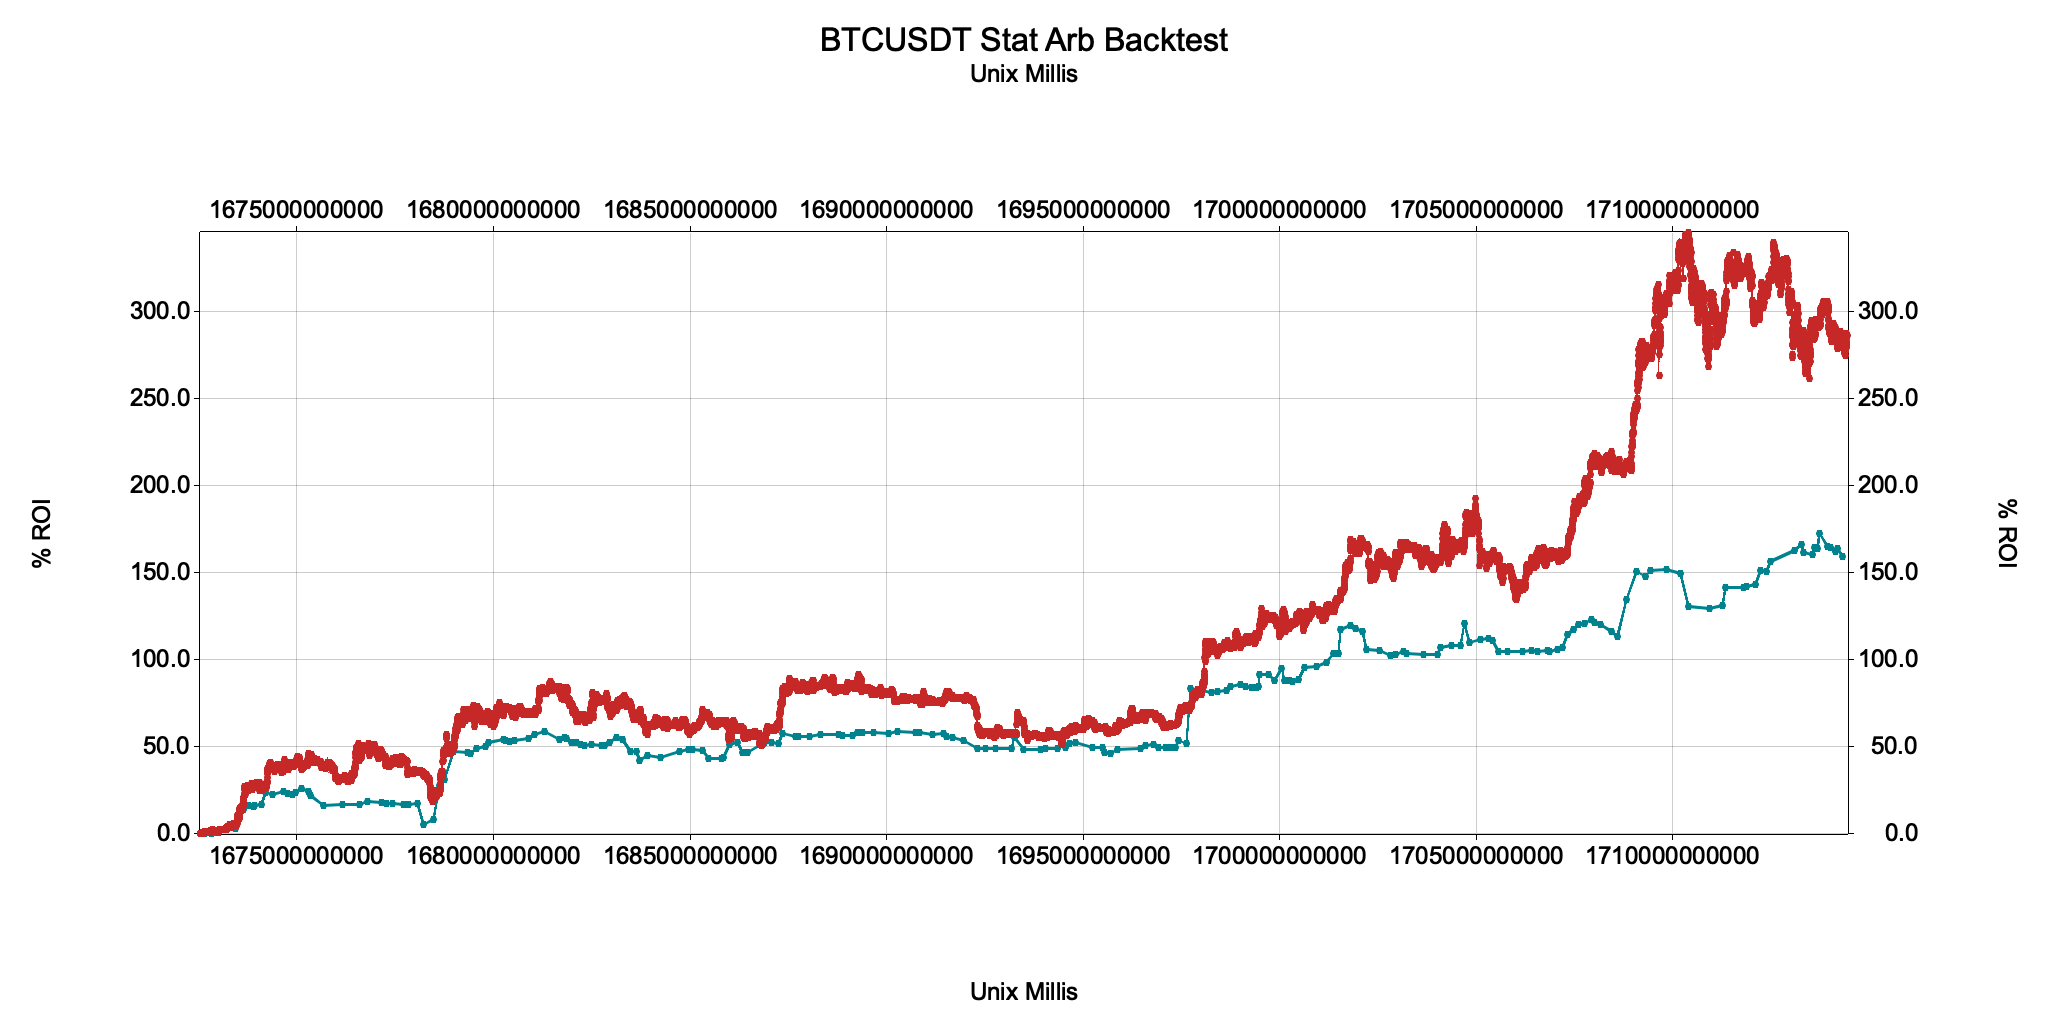
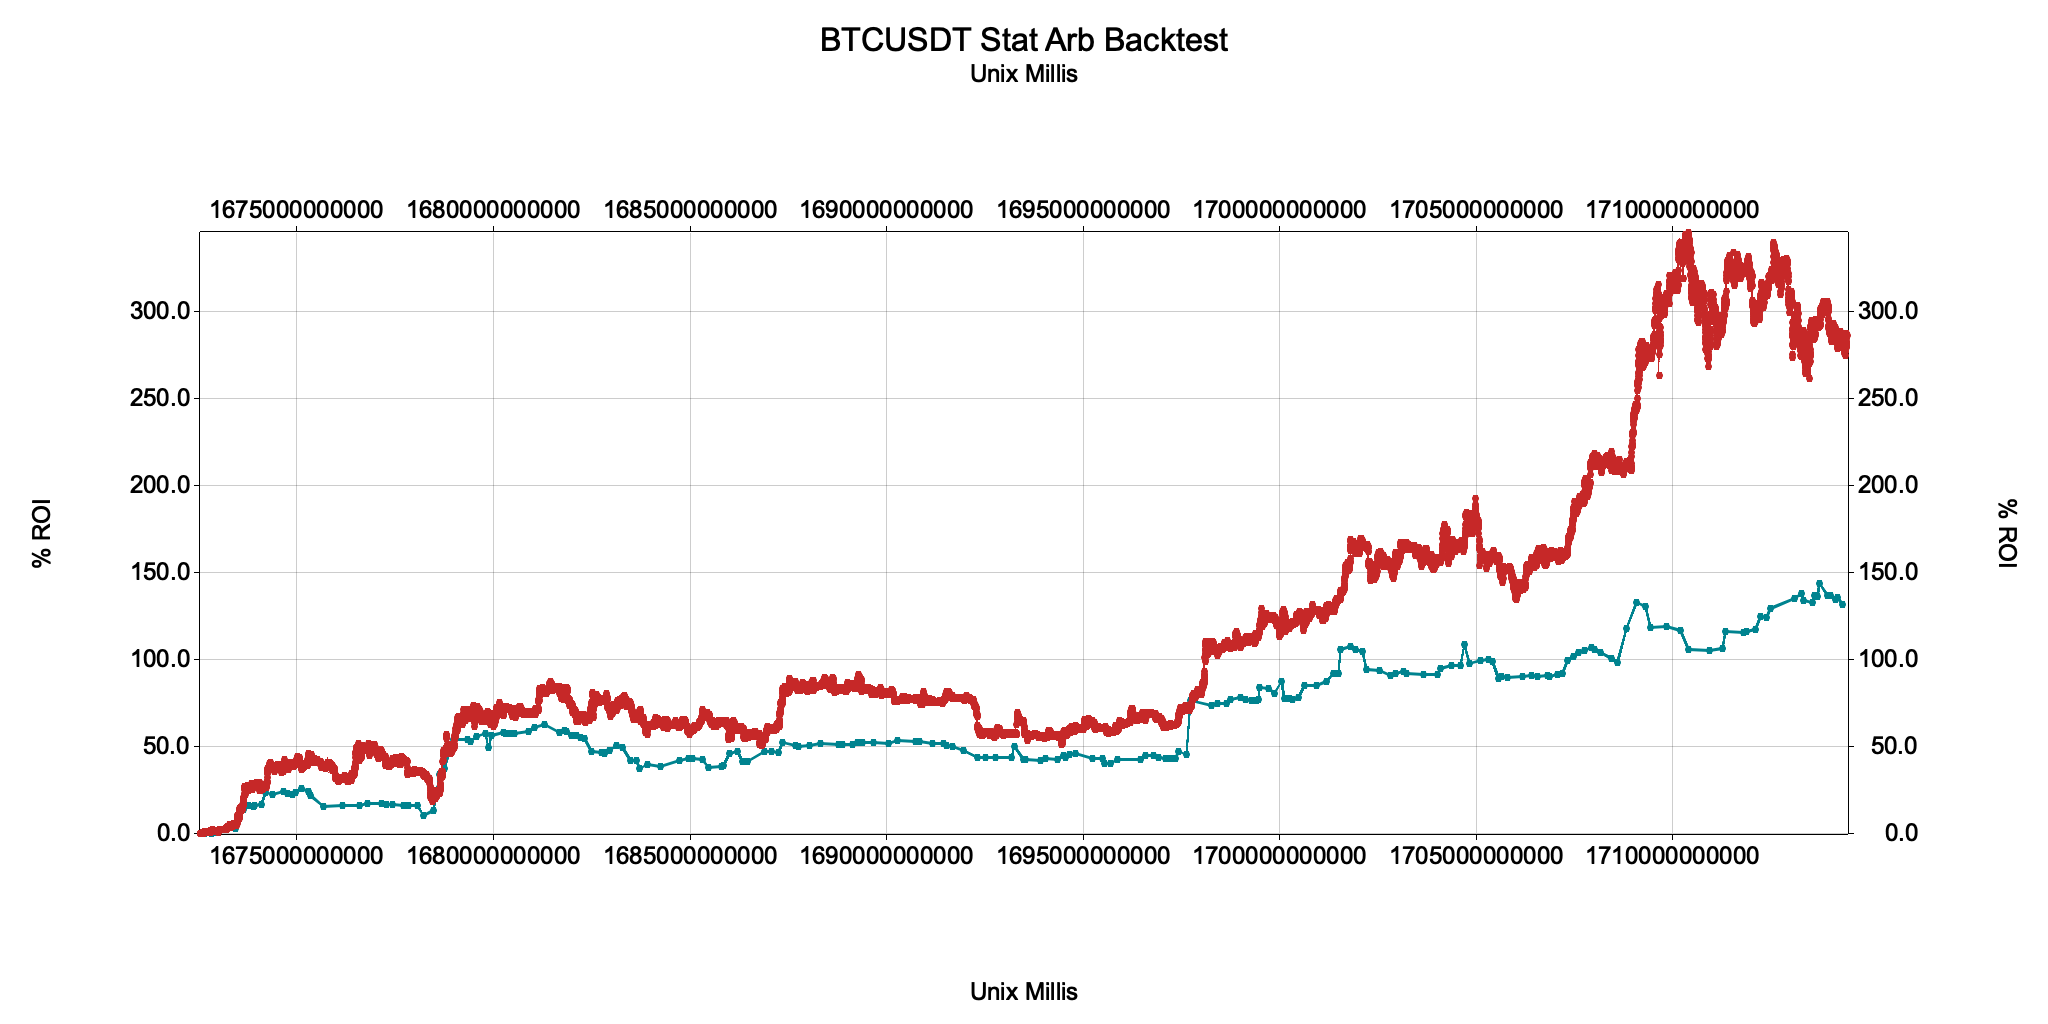
avoid duplicate stop loss entries

Changed region(s): [[0.5938, 0.5312, 0.9062, 0.6875], [0.2188, 0.6875, 0.5938, 0.75], [0.1875, 0.7812, 0.2188, 0.8125]]

diff --git a/dreamrunner/src/engine.rs b/dreamrunner/src/engine.rs
@@ -429,135 +429,6 @@ impl<T, S: Strategy<T>> Engine<T, S> {
     Ok(trunc!(pnl, 2))
   }
 
-  /// This version of `check_active_order` fetches the true value from the API
-  /// in the event that the websocket stream is unreliable.
-  // pub async fn manually_check_active_order(&mut self) -> DreamrunnerResult<()> {
-  //   let copy = self.active_order.clone();
-  //   if let Some(entry) = &copy.entry {
-  //     let all_orders = self.all_orders().await?;
-  //     let actual_entry = all_orders
-  //       .iter()
-  //       .find(|o| o.client_order_id == entry.client_order_id()).cloned();
-  //     
-  //     match entry {
-  //       // entry order has been placed on binance and is new, partially filled, filled, or canceled
-  //       OrderState::Active(cached_entry) => {
-  //         // check cached entry versus binance's entry
-  //         // this is a workaround since the websocket seems to not send updates sometimes,
-  //         // so we manually fetch from the API and compare against the cached entry
-  //         let entry = match actual_entry {
-  //           None => {
-  //             if cached_entry.status == OrderStatus::New {
-  //               // seeming race condition where new order is streamed over websocket 
-  //               // before API can return it in historical orders request
-  //               warn!("NEW Active order is missing from historical orders: {:#?}", entry);
-  //             } else {
-  //               error!("Active order is missing from historical orders: {:#?}", entry);
-  //             }
-  //             cached_entry.clone()
-  //           }
-  //           Some(actual_entry) => {
-  //             let actual_trade = TradeInfo::try_from(&actual_entry)?;
-  //             if actual_trade.status != cached_entry.status {
-  //               info!("🟡 Cached order status, {}, is outdated from actual: {:#?}", cached_entry.status.to_str(), 
-  //                 actual_trade.status);
-  //               self.update_active_order(actual_trade.clone())?;
-  //               actual_trade
-  //             } else {
-  //               cached_entry.clone()
-  //             }
-  //           }
-  //         };
-  //         if entry.status == OrderStatus::PartiallyFilled || entry.status == OrderStatus::New {
-  //           // using updated entry, check if order hasn't filled within 10 minutes
-  //           self.reset_if_stale(&entry, false).await?;
-  //         } else if entry.status == OrderStatus::Filled {
-  //           // entry is filled, place stop loss
-  //           info!("Order filled: {:#?}", entry);
-  //           self.manually_check_stop_loss(&all_orders).await?;
-  //         }
-  //       }
-  //       OrderState::Pending(order) => {
-  //         match actual_entry {
-  //           Some(actual_entry) => {
-  //             let order = TradeInfo::try_from(&actual_entry)?;
-  //             self.update_active_order(order.clone())?;
-  //             self.reset_if_stale(&order, false).await?
-  //           },
-  //           None => self.reset_if_stale(order, false).await?
-  //         }
-  //       }
-  //     }
-  //   }
-  //   Ok(())
-  // }
-
-  // /// Manually fetch latest stop loss order to ensure cache isn't out of date (websocket sucks for some reason).
-  // /// If entry is filled and stop loss is pending, then place the stop loss order.
-  // /// If stop loss is active, check if it has filled. 
-  // /// If stop loss is stale then reset it. If filled then reset the active order.
-  // async fn manually_check_stop_loss(&mut self, all_orders: &[HistoricalOrder]) -> DreamrunnerResult<()> {
-  //   let copy = self.active_order.clone();
-  //   if let Some(stop_loss_order) = &copy.stop_loss {
-  //     let actual_stop_loss = all_orders
-  //       .iter()
-  //       .find(|o| o.client_order_id == stop_loss_order.client_order_id()).cloned();
-  // 
-  //     match stop_loss_order {
-  //       OrderState::Pending(cached_stop_loss) => {
-  //         match actual_stop_loss {
-  //           Some(actual_stop_loss) => {
-  //             // websocket failed to update cache, so manually update it
-  //             warn!("🔴 Cached stop loss is pending, but actual is active with status: {:#?}", actual_stop_loss.status);
-  //             let stop_loss = TradeInfo::try_from(&actual_stop_loss)?;
-  //             self.update_active_order(stop_loss.clone())?;
-  //             // self.reset_if_stale(&stop_loss, true).await?;
-  //           }
-  //           None => {
-  //             // place stop loss order
-  //             if let Some(OrderState::Active(entry)) = &copy.entry {
-  //               if entry.status == OrderStatus::PartiallyFilled || entry.status == OrderStatus::Filled {
-  //                 info!("🟣🟣 Place stop loss order");
-  //                 self.trade_or_reset::<LimitOrderResponse>(cached_stop_loss.clone()).await?;
-  //               }
-  //             }
-  //           }
-  //         }
-  //       }
-  //       OrderState::Active(stop_loss) => {
-  //         match actual_stop_loss {
-  //           Some(actual_stop_loss) => {
-  //             // websocket failed to update cache, so manually update it
-  //             let actual_stop_loss = TradeInfo::try_from(&actual_stop_loss)?;
-  //             if actual_stop_loss.status != stop_loss.status {
-  //               self.update_active_order(actual_stop_loss.clone())?;
-  //               // self.reset_if_stale(&actual_stop_loss, true).await?;
-  //             }
-  //           }
-  //           None => {
-  //             if stop_loss.status == OrderStatus::PartiallyFilled {
-  //               self.reset_if_stale(stop_loss, true).await?;
-  //             } else if stop_loss.status == OrderStatus::Filled {
-  //               // entry and stop loss have completed, reset everything for the next trade
-  //               info!("🔴 Stop loss filled: {:#?}", stop_loss);
-  //               self.reset_active_order().await?;
-  //             }
-  //           }
-  //         }
-  //       }
-  //     }
-  //   } else if let Some(OrderState::Active(entry)) = &self.active_order.entry {
-  //     // no stop loss, just check if entry is filled
-  //     if entry.status == OrderStatus::Filled {
-  //       // entry is filled, reset active order
-  //       info!("🟣 Filled entry with no stop loss, reset active order");
-  //       self.reset_active_order().await?;
-  //     }
-  //   }
-  // 
-  //   Ok(())
-  // }
-
   pub async fn check_active_order(&mut self) -> DreamrunnerResult<()> {
     let copy = self.active_order.clone();
     if let Some(entry) = &copy.entry {
@@ -590,7 +461,7 @@ impl<T, S: Strategy<T>> Engine<T, S> {
   
   /// If entry is filled and stop loss is pending, then place the stop loss order.
   /// If stop loss is active, check if it has filled. 
-  /// If stop loss is stale then reset it. If filled then reset the active order.
+  /// If stop loss is partially filled and stale then reset it. If filled then reset the active order.
   async fn check_stop_loss(&mut self) -> DreamrunnerResult<()> {
     let copy = self.active_order.clone();
     match &copy.stop_loss {
@@ -599,9 +470,10 @@ impl<T, S: Strategy<T>> Engine<T, S> {
           OrderState::Pending(stop_loss) => {
             if let Some(OrderState::Active(entry)) = &copy.entry {
               // place stop loss order if entry is filled
-              if entry.status == OrderStatus::PartiallyFilled || entry.status == OrderStatus::Filled {
+              if (entry.status == OrderStatus::PartiallyFilled || entry.status == OrderStatus::Filled) && !self.active_order.stop_loss_placed {
                 info!("🟣🟣 Place stop loss order");
                 self.trade_or_reset::<LimitOrderResponse>(stop_loss.clone()).await?;
+                self.active_order.stop_loss_placed = true;
               }
             }
           }

diff --git a/playbook/src/strategies/stat_arb.rs b/playbook/src/strategies/stat_arb.rs
@@ -85,10 +85,10 @@ impl StatArb {
         )?;
         assert_eq!(spread.len(), y.len());
         assert_eq!(spread.len(), x.len());
-        
+
         let lag_spread = spread[..spread.len()-1].to_vec();
         let spread = spread[1..].to_vec();
-        
+
         assert_eq!(spread.len(), lag_spread.len());
         assert_eq!(lag_spread.len(), self.window);
         assert_eq!(spread.len(), self.window);
@@ -102,14 +102,17 @@ impl StatArb {
           y: Self::zscore(&lag_spread, self.window)?
         };
 
-        let enter_long = z_0.y() < -self.zscore_threshold;
+        // original
+        // let enter_long = z_0.y() < -self.zscore_threshold;
         // let exit_long = z_0.y() > 0.0 && z_1.y() < 0.0;
-        let exit_long = z_0.y() > self.zscore_threshold;
-
         // let enter_short = z_0.y() > self.zscore_threshold;
         // let exit_short = z_0.y() < 0.0 && z_1.y() > 0.0;
-        let enter_short = exit_long;
-        let exit_short = enter_long;
+
+        // good
+        let exit_long = z_0.y() < -self.zscore_threshold;
+        let enter_long = z_0.y() > self.zscore_threshold;
+        let exit_short = exit_long;
+        let enter_short = enter_long;
 
         let x_info = SignalInfo {
           price: x_0.y(),
@@ -126,21 +129,21 @@ impl StatArb {
 
         // process exits before any new entries
         if exit_long {
-          signals.push(Signal::EnterLong(x_info.clone()));
-          signals.push(Signal::EnterLong(y_info.clone()))
+          signals.push(Signal::ExitLong(x_info.clone()));
+          signals.push(Signal::ExitLong(y_info.clone()))
         }
         if exit_short {
-          // signals.push(Signal::EnterShort(x_info.clone()));
+          signals.push(Signal::ExitShort(x_info.clone()));
           signals.push(Signal::ExitShort(y_info.clone()))
         }
 
         if enter_long {
-          signals.push(Signal::ExitLong(x_info.clone()));
-          signals.push(Signal::ExitLong(y_info.clone()))
+          signals.push(Signal::EnterLong(x_info.clone()));
+          signals.push(Signal::EnterLong(y_info.clone()))
         }
         if enter_short {
-          // signals.push(Signal::ExitShort(x_info));
-          signals.push(Signal::EnterShort(y_info))
+          signals.push(Signal::EnterShort(x_info.clone()));
+          signals.push(Signal::EnterShort(y_info.clone()))
         }
         Ok(signals)
       }
@@ -203,11 +206,11 @@ async fn btc_eth_30m_stat_arb() -> anyhow::Result<()> {
 
   let start_time = Time::new(2023, &Month::from_num(1), &Day::from_num(1), None, None, None);
   let end_time = Time::new(2024, &Month::from_num(4), &Day::from_num(30), None, None, None);
- 
+
   let window = 9;
   let capacity = window + 1;
   let threshold = 2.0;
-  let stop_loss = None;
+  let stop_loss = Some(5.0);
   let fee = 0.02;
   let bet = Bet::Percent(100.0);
   let leverage = 1;

diff --git a/lib/src/trade.rs b/lib/src/trade.rs
@@ -100,7 +100,8 @@ impl Timestamp for OrderState {
 #[derive(Debug, Clone, Default)]
 pub struct ActiveOrder {
   pub entry: Option<OrderState>,
-  pub stop_loss: Option<OrderState>
+  pub stop_loss: Option<OrderState>,
+  pub stop_loss_placed: bool
 }
 
 impl ActiveOrder {
@@ -127,5 +128,6 @@ impl ActiveOrder {
   pub fn reset(&mut self) {
     self.entry = None;
     self.stop_loss = None;
+    self.stop_loss_placed = false;
   }
 }
